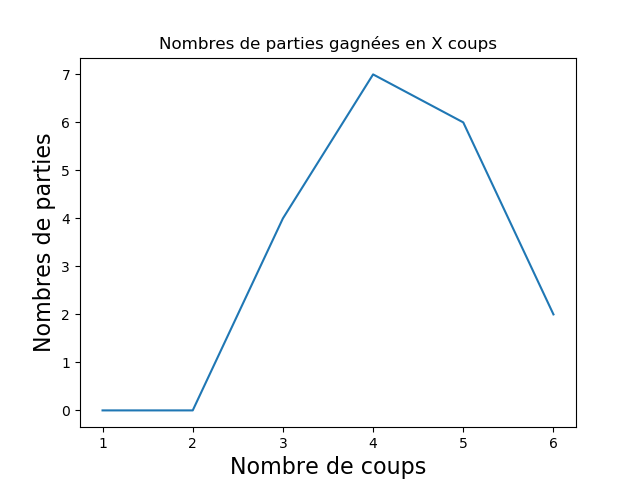
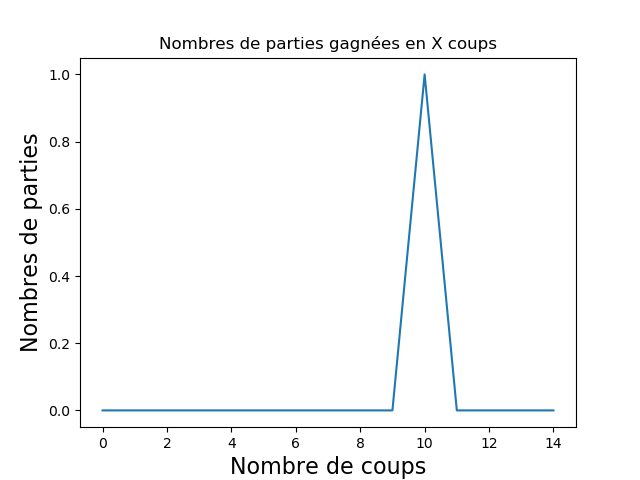
Stat connecte avec historique

diff --git a/web/app.py b/web/app.py
@@ -204,8 +204,14 @@ def stat():
         histo.append(i)
     con.commit()
     con.close()
-    x = [1, 2, 3, 4, 5, 6]
-    y = [0, 0, 4, 7, 6, 2]
+
+    y=[0 for i in range(15)]
+    x=[i for i in range (15)]
+
+    for u in histo:
+        if u[1]==user:
+            y[int(u[3])]+=1
+
     plt.plot(x, y)
     plt.title("Nombres de parties gagnées en X coups")
     plt.xlabel("Nombre de coups", size = 16,)
